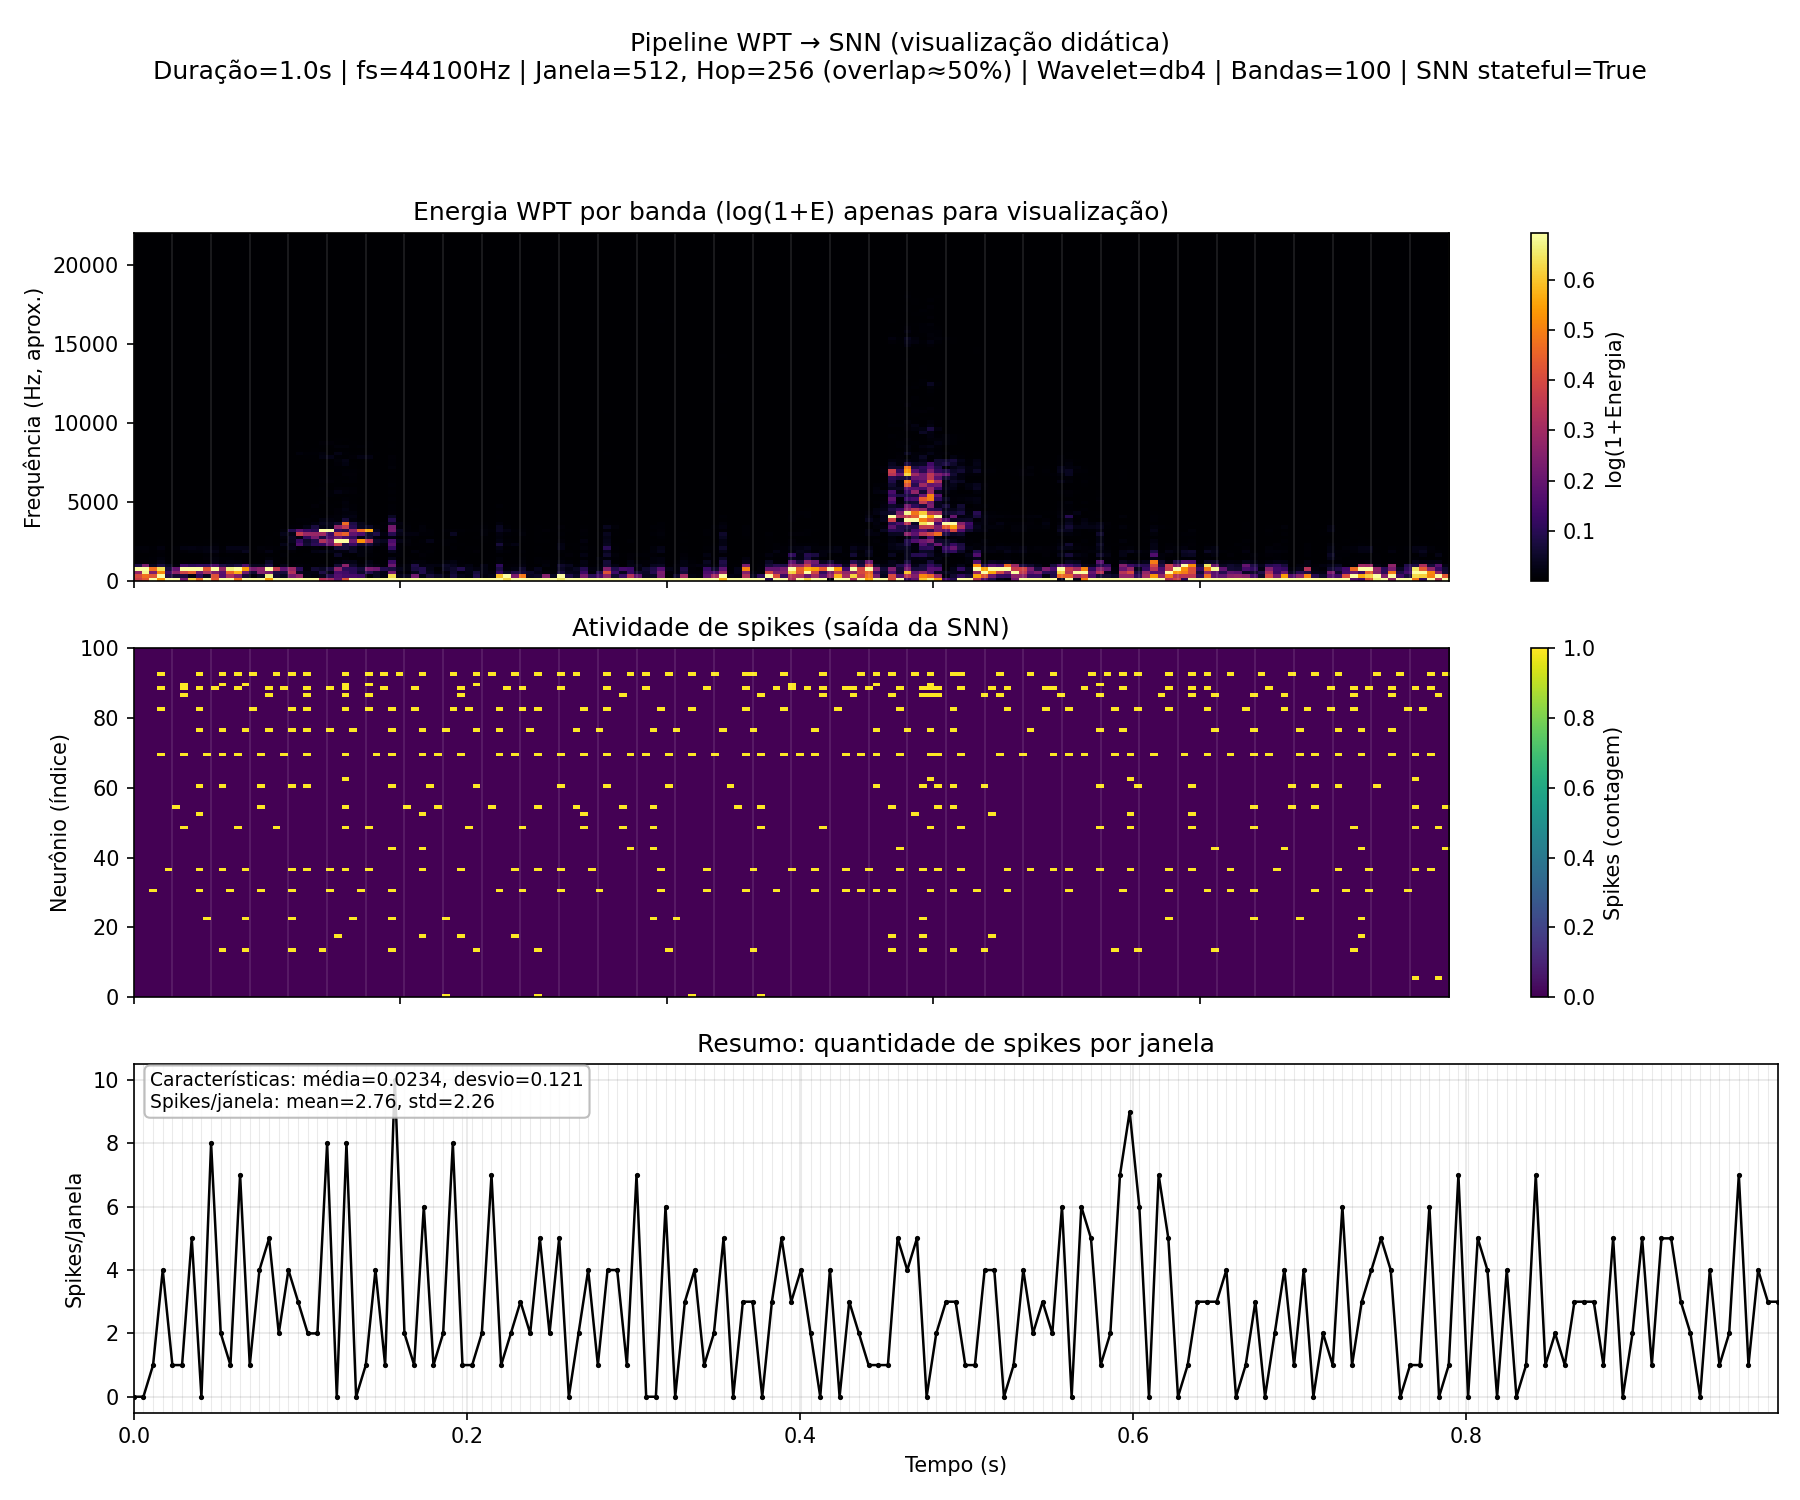
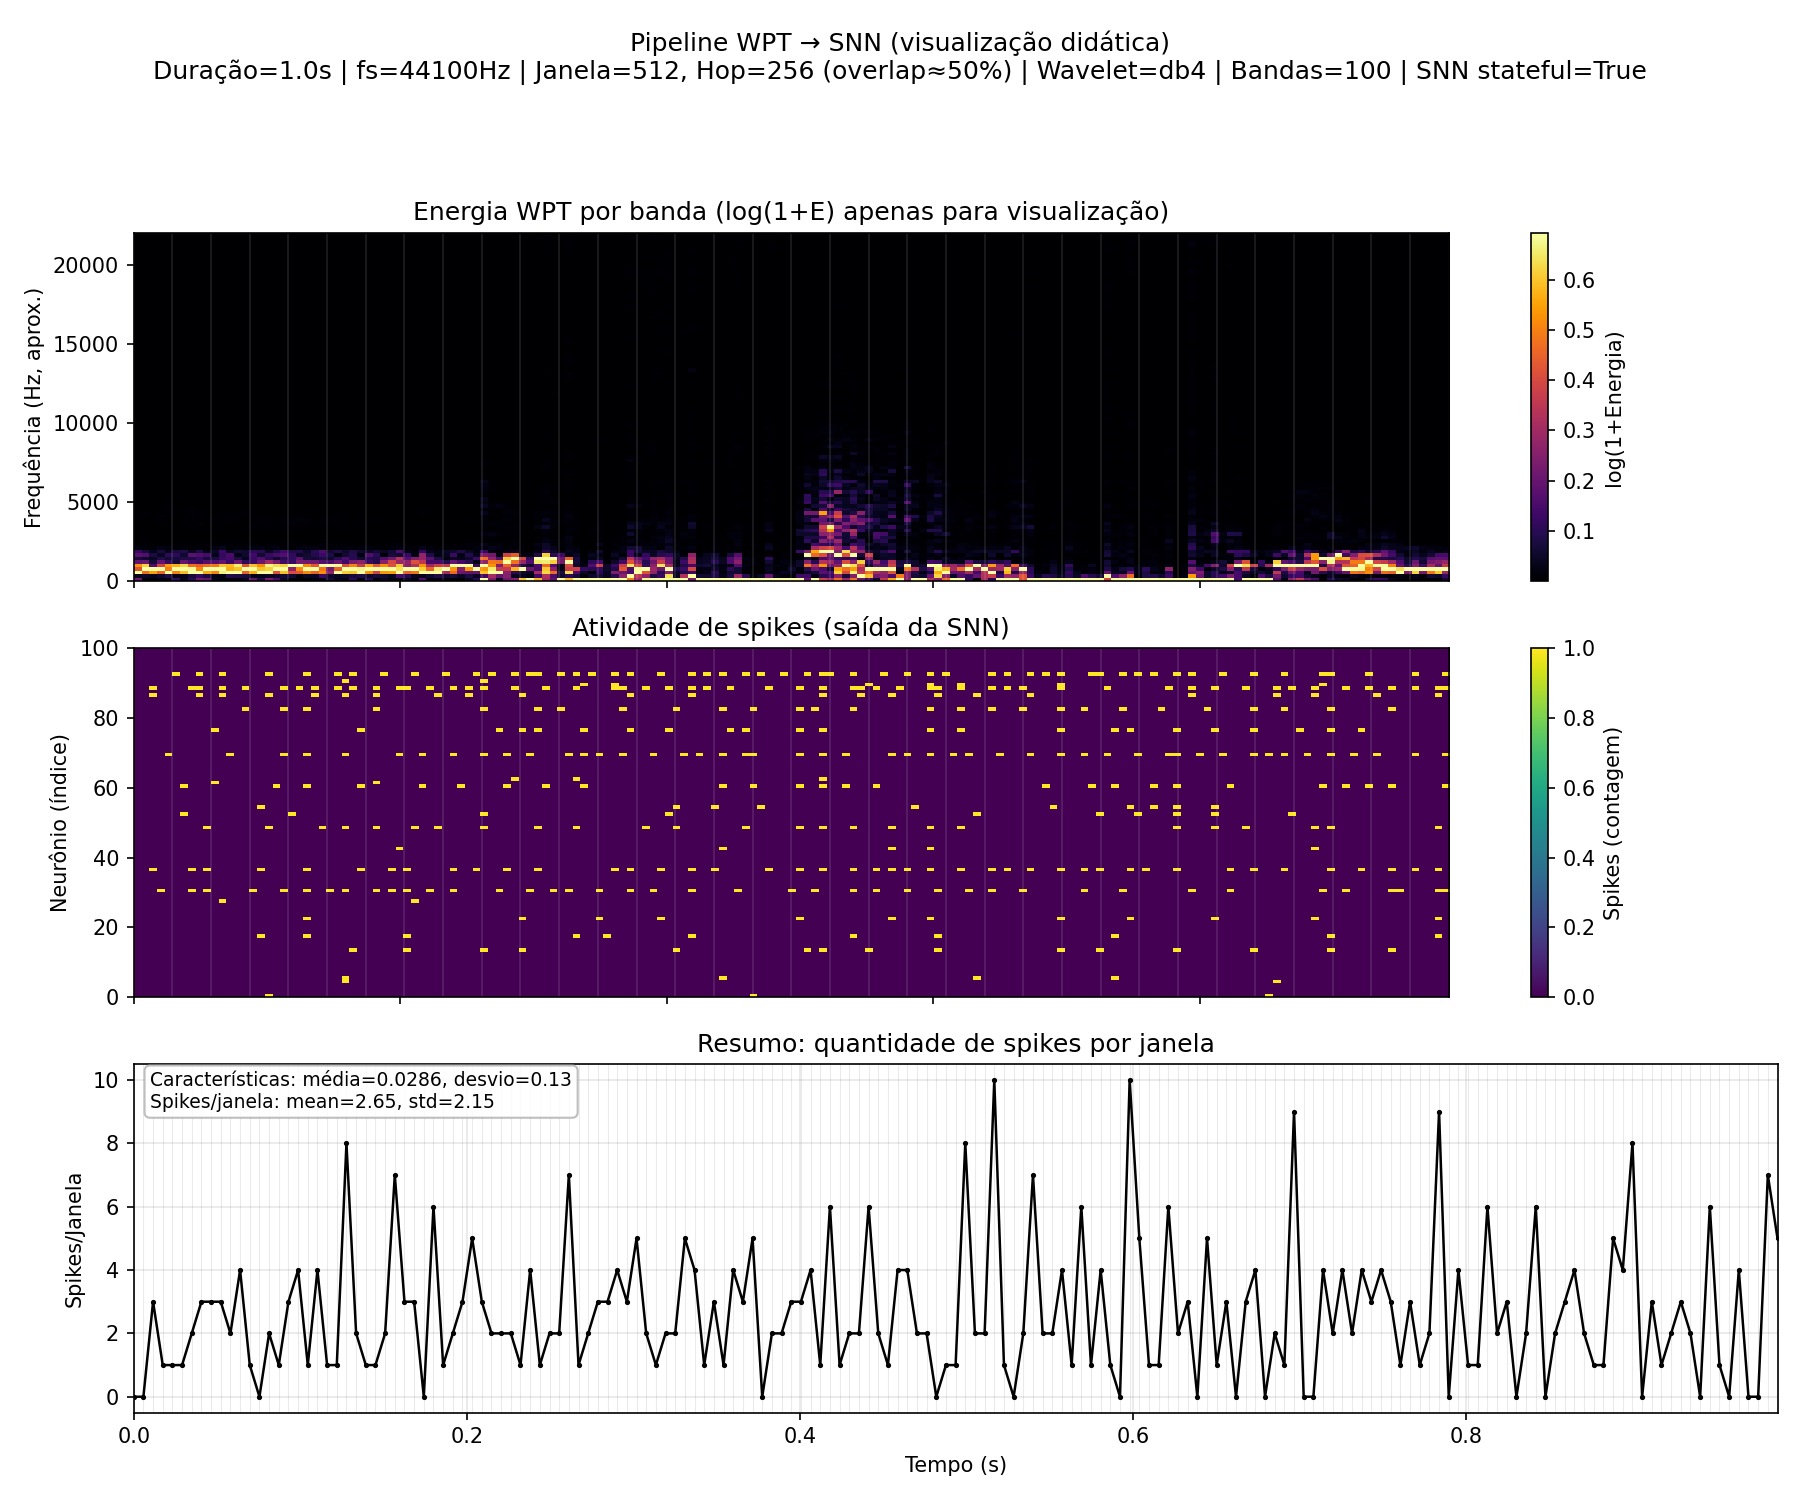
Understanding networks

diff --git a/software/nn/src/demos/pydemos/utils/preprocessamento.py b/software/nn/src/demos/pydemos/utils/preprocessamento.py
@@ -4,40 +4,36 @@ import numpy as np
 
 
 def preprocessar_energia_wpt_para_snn(
-    energia: np.ndarray,
-    *,
-    eps: float = 1e-8,
-    usar_log: bool = True,
+    energia: np.ndarray, *, limiar_maximo: float = 1e-8
 ) -> np.ndarray:
-    """Prepara o vetor de energia WPT para ser usado como entrada na SNN.
-
-    Objetivo:
-    - Reduzir faixa dinâmica (energia WPT pode variar bastante).
-    - Padronizar escala para alimentar um codificador de spikes (tipicamente em [0, 1]).
-
-    Estratégia (didática e robusta para demo):
-    1) Remove negativos por segurança numérica.
-    2) (Opcional) Comprime com log(1+E).
-    3) Normaliza por máximo para obter valores em [0, 1].
-
-    Observação:
-    - Para treino sério em biometria de voz, você pode preferir normalização global (média/desvio)
-      por pessoa ou por corpus. Aqui escolhemos uma normalização por janela para ser simples e estável.
+    """
+    Prepara o vetor de energia WPT para ser usado como entrada na SNN.
+    * Objetivo:
+        - Reduzir faixa dinâmica (energia WPT pode variar bastante).
+        - Padronizar escala para alimentar um codificador de spikes.
+    * Estratégia:
+        1) Remove negativos por segurança numérica.
+        2) Comprime com log(1+E).
+        3) Normaliza por máximo para obter valores no intervalo [0, 1].
     """
 
     # Converte para float32 e elimina valores negativos por segurança.
-    x = np.asarray(energia, dtype=np.float32)
-    x = np.maximum(x, 0.0)
+    energia_proc = np.asarray(energia, dtype=np.float32)
+    energia_proc = np.maximum(energia_proc, 0.0)
 
-    # Compressão logarítmica opcional para reduzir faixa dinâmica.
-    if usar_log:
-        x = np.log1p(x)
+    # Compressão logarítmica para reduzir faixa dinâmica.
+    energia_proc = np.log1p(energia_proc)
 
     # Normaliza em [0,1] usando o máximo da janela.
-    maxv = float(np.max(x))
-    if maxv < eps:
-        return np.zeros_like(x, dtype=np.float32)
+    valor_maximo = float(np.max(energia_proc))
 
-    x = x / (maxv + eps)
-    x = np.clip(x, 0.0, 1.0)
-    return x.astype(np.float32)
+    # Evita divisão por zero.
+    if valor_maximo < limiar_maximo:
+        return np.zeros_like(energia_proc, dtype=np.float32)
+
+    # Normalização final.
+    energia_proc = energia_proc / (valor_maximo + limiar_maximo)
+    energia_proc = np.clip(energia_proc, 0.0, 1.0)
+
+    # Retorna o vetor processado.
+    return energia_proc.astype(np.float32)

diff --git a/software/nn/src/demos/pydemos/utils/janelamento.py b/software/nn/src/demos/pydemos/utils/janelamento.py
@@ -7,40 +7,42 @@ def aplicar_janelamento(
     sinal: np.ndarray,
     tamanho_janela: int,
     tamanho_passo: int,
-    funcao_janela=None,
+    funcao_de_janelamento=None,
     **kwargs,
 ) -> list[np.ndarray]:
     """Segmenta o sinal em janelas sobrepostas com função de janelamento explícita."""
 
-    # Compatibilidade: permitir chamada antiga com window_fn=...
-    if funcao_janela is None:
-        funcao_janela = kwargs.pop("window_fn", np.hanning)
-    if kwargs:
-        raise TypeError(
-            f"Argumentos inesperados em aplicar_janelamento: {list(kwargs.keys())}"
-        )
+    # Janela de Hann por padrão.
+    if funcao_de_janelamento is None:
+        funcao_de_janelamento = np.hanning
 
     # Calcula quantidade de amostras e inicializa a lista de janelas.
-    num_amostras = len(sinal)
-    janelas = []
+    tamanho_do_sinal = len(sinal)
 
-    if num_amostras < tamanho_janela:
+    # Lista de janelas resultantes.
+    sinal_janelado = []
+
+    if tamanho_do_sinal < tamanho_janela:
         print("[Janelamento] Aviso: sinal menor que o tamanho da janela.")
         return []
 
-    # Gerar a janela uma única vez (mesmo shape para todas as fatias).
-    janela = funcao_janela(tamanho_janela)
+    # Gera os coefficients da janelamento.
+    coeficientes_da_janela = funcao_de_janelamento(tamanho_janela)
 
     # Iterar sobre o sinal com passo fixo (hop_size)
-    for inicio in range(0, num_amostras - tamanho_janela + 1, tamanho_passo):
+    for inicio in range(0, tamanho_do_sinal - tamanho_janela + 1, tamanho_passo):
         fim = inicio + tamanho_janela
-        segmento = sinal[inicio:fim]
+
+        # Extrai o segmento do sinal
+        segmento_do_sinal = sinal[inicio:fim]
 
         # Aplicar a função de janela (multiplicação de elementos).
-        segmento_janelado = segmento * janela
-        janelas.append(segmento_janelado)
+        segmento_do_sinal_janelado = segmento_do_sinal * coeficientes_da_janela
+
+        # Adiciona o sinal janelado à lista
+        sinal_janelado.append(segmento_do_sinal_janelado)
 
     print(
-        f"[Janelamento] Geradas {len(janelas)} janelas (tamanho={tamanho_janela}, passo={tamanho_passo})"
+        f"[Janelamento] Geradas {len(sinal_janelado)} janelas (tamanho={tamanho_janela}, passo={tamanho_passo})"
     )
-    return janelas
+    return sinal_janelado

diff --git a/software/nn/src/demos/pydemos/app/comandos.py b/software/nn/src/demos/pydemos/app/comandos.py
@@ -44,28 +44,30 @@ def cmd_demo(args: argparse.Namespace) -> None:
 
     # Captura áudio ao vivo e extrai características por janela.
     audio = capturar_audio(args.duracao, args.taxa_amostragem)
-    caracs = extrair_janelas_caracteristicas(audio, cfg=cfg_extracao)
-    if not caracs:
+    caracteristicas = extrair_janelas_caracteristicas(audio, cfg=cfg_extracao)
+
+    # Verifica se gerou janelas.
+    if not caracteristicas:
         raise RuntimeError("Nenhuma janela gerada.")
 
-    # Modelo com saída do mesmo tamanho das entradas (para manter plots didáticos).
-    model = criar_modelo_snn(
+    # Modelo com saída do mesmo tamanho das entradas.
+    rede_neural = criar_modelo_snn(
         num_inputs=cfg_extracao.num_bandas,
         num_outputs=cfg_extracao.num_bandas,
         profundidade=getattr(args, "profundidade", None),
     )
-    model.eval()
+    rede_neural.eval()
 
     lista_spikes_saida = []
     with torch.no_grad():
         state = None
         # Processa cada janela; soma spikes ao longo do tempo para plot.
-        for c in caracs:
+        for c in caracteristicas:
             xb = torch.tensor(c, dtype=torch.float32).unsqueeze(0)
             spk_in = codificar_poisson(
                 xb, passos=cfg_snn.passos_por_janela, adaptativo=True
             )
-            spk_out_seq, state = model(spk_in, state)
+            spk_out_seq, state = rede_neural(spk_in, state)
 
             # Para plotar por janela, agregamos os spikes ao longo dos passos.
             spk_janela = spk_out_seq.sum(dim=0)  # [1, num_bandas]
@@ -73,7 +75,7 @@ def cmd_demo(args: argparse.Namespace) -> None:
 
     # Gera os gráficos de características e spikes.
     plotar_resultados(
-        caracs,
+        caracteristicas,
         lista_spikes_saida,
         sample_rate=cfg_extracao.taxa_amostragem,
         window_size=cfg_extracao.tamanho_janela,

diff --git a/software/nn/src/demos/pydemos/services/conjunto_dados.py b/software/nn/src/demos/pydemos/services/conjunto_dados.py
@@ -39,7 +39,7 @@ def listar_amostras_por_pessoa(diretorio_base: str) -> dict[str, list[str]]:
 
 
 def extrair_janelas_caracteristicas(
-    audio: np.ndarray,
+    sinal: np.ndarray,
     *,
     cfg: ConfigExtracao,
 ) -> list[np.ndarray]:
@@ -55,24 +55,27 @@ def extrair_janelas_caracteristicas(
     )
 
     # Segmenta o áudio em janelas sobrepostas.
-    janelas = aplicar_janelamento(
-        audio,
+    sinal_janelado = aplicar_janelamento(
+        sinal,
         cfg.tamanho_janela,
         cfg.tamanho_passo,
-        funcao_janela=np.hanning,
+        funcao_de_janelamento=np.hanning,
     )
 
     # Constrói o vetor de características por janela.
     caracteristicas: list[np.ndarray] = []
-    for janela in janelas:
-        # Energia por banda + normalização para [0, 1].
-        energia = calcular_energia_wpt(
+
+    # Processa cada janela.
+    for janela in sinal_janelado:
+
+        # Energia por banda decomposta via WPT + normalização para [0, 1].
+        energia_por_bandas = calcular_energia_wpt(
             janela,
             wavelet_base=cfg.wavelet_base,
             nivel_maximo=nivel_wpt,
             num_bandas=cfg.num_bandas,
         )
-        caracteristicas.append(preprocessar_energia_wpt_para_snn(energia))
+        caracteristicas.append(preprocessar_energia_wpt_para_snn(energia_por_bandas))
 
     return caracteristicas
 

diff --git a/software/nn/src/demos/pydemos/utils/ondaletas.py b/software/nn/src/demos/pydemos/utils/ondaletas.py
@@ -34,22 +34,15 @@ def calcular_nivel_wpt(
     if nivel_max_por_tamanho < 1:
         return 1
 
-    # WaveletPacket exige um vetor; usamos um dummy para sondar níveis.
-    dummy = np.zeros(janela_efetiva, dtype=np.float32)
-    wp = pywt.WaveletPacket(
-        data=dummy,
-        wavelet=wavelet_base,
-        mode="symmetric",
-        maxlevel=nivel_max_por_tamanho,
-    )
+    # Escolha direta: menor nível L tal que 2**L >= num_bandas.
+    if num_bandas <= 1:
+        nivel_escolhido = 1
+    else:
+        # Calcula o nível necessário: 2^nivel >= num_bandas
+        nivel_necessario = int(np.ceil(np.log2(num_bandas)))
 
-    # Seleciona o primeiro nível que alcança o número de bandas desejado.
-    nivel_escolhido = nivel_max_por_tamanho
-    for nivel in range(1, nivel_max_por_tamanho + 1):
-        nos = wp.get_level(nivel, order="freq")
-        if len(nos) >= num_bandas:
-            nivel_escolhido = nivel
-            break
+        # Escolhe o nível final considerando o máximo permitido.
+        nivel_escolhido = min(nivel_max_por_tamanho, max(1, nivel_necessario))
 
     return nivel_escolhido
 

diff --git a/software/nn/src/demos/pydemos/services/modelos/rede_snn.py b/software/nn/src/demos/pydemos/services/modelos/rede_snn.py
@@ -41,6 +41,7 @@ class ModeloSNN(nn.Module):
 
         if quantidade_de_classes is None or quantidade_de_classes <= 0:
             raise ValueError("`quantidade_de_classes` não pode ser None ou <= 0.")
+
         self.num_saidas = quantidade_de_classes
 
         self.escala_entrada = 1.0
@@ -77,7 +78,7 @@ class ModeloSNN(nn.Module):
                 tamanho_lote, self.num_saidas, device=device, dtype=dtype
             ),
         }
-        
+
         # Para cada bloco residual, duas memórias (uma para cada LIF)
         for i in range(self.num_blocos_residuais):
             state[f"mem_res{i}_1"] = torch.zeros(
@@ -188,8 +189,12 @@ def criar_modelo_snn(
 ):
     # Regra de inicialização determinística (reprodutibilidade do demo).
     torch.manual_seed(42)
+
+    # Parâmetros padrão.
     if profundidade is None:
         profundidade = 3
+
+    # Cria e retorna o modelo SNN.
     return ModeloSNN(
         tamanho_da_entrada=num_inputs,
         quantidade_de_classes=num_outputs,
